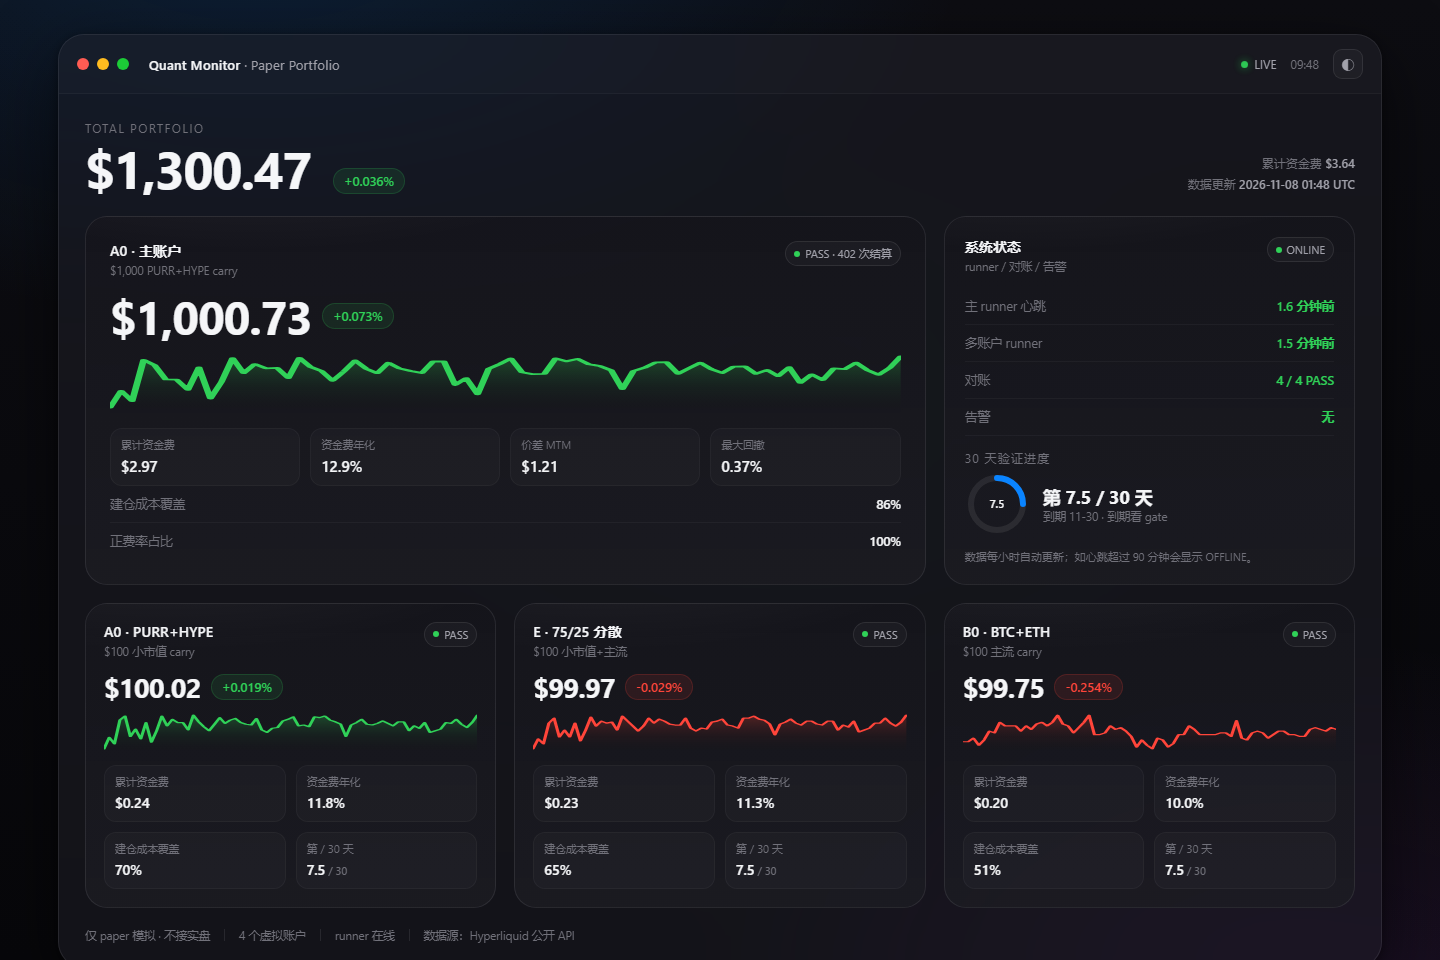
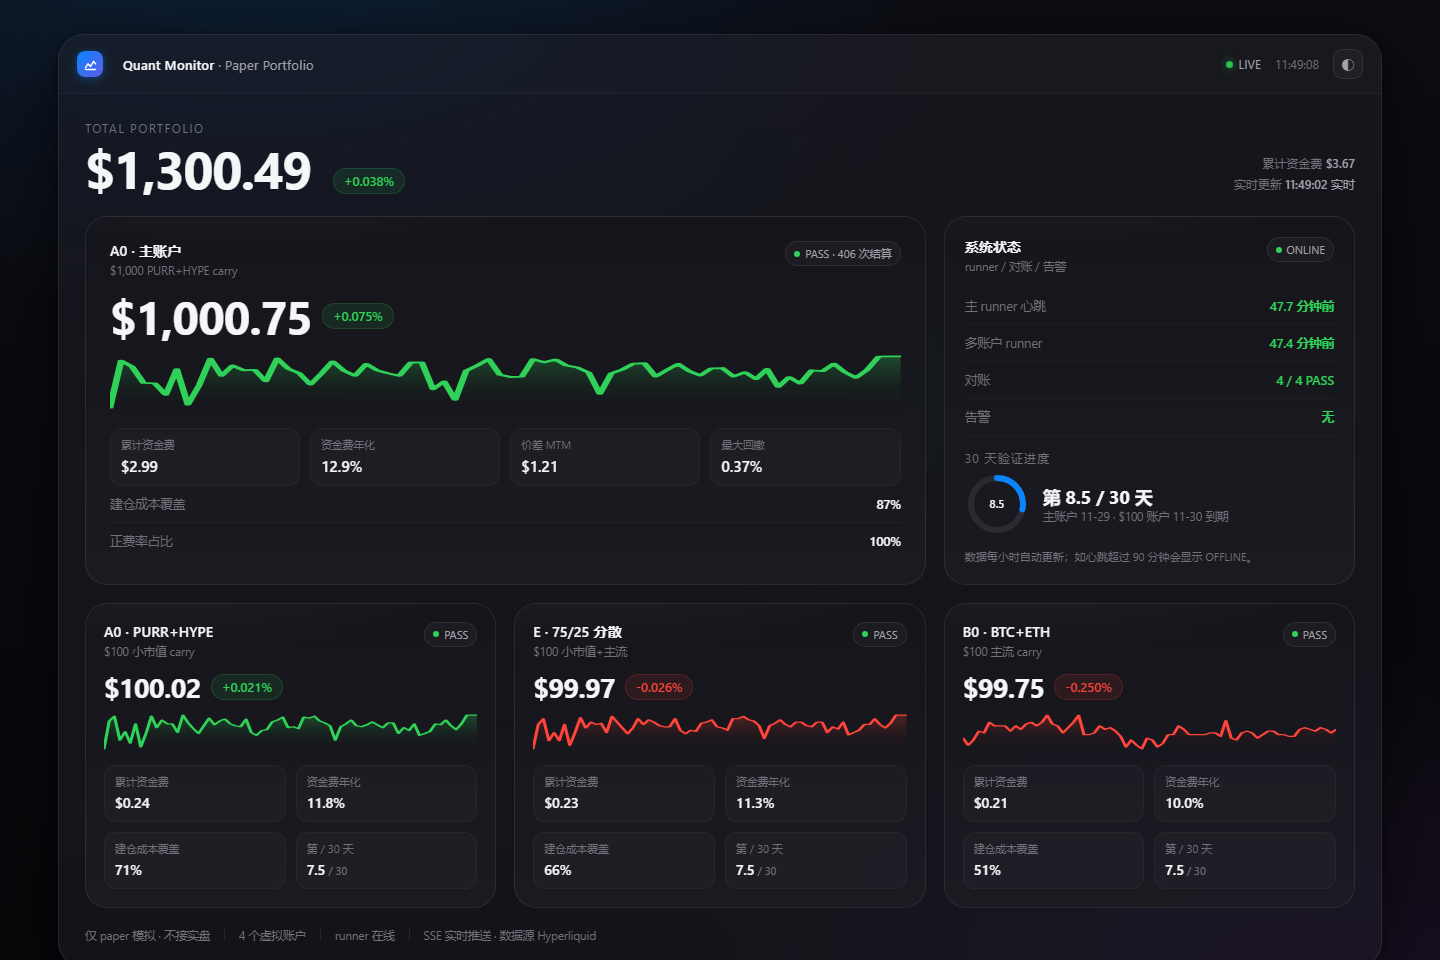
feat(dashboard): realtime SSE updates, drop decorative traffic lights

diff --git a/dashboard/index.html b/dashboard/index.html
@@ -51,9 +51,9 @@ body::before{
   display:flex; align-items:center; gap:14px; padding:14px 18px;
   border-bottom:1px solid var(--line-2); background:rgba(255,255,255,.015);
 }
-.lights{display:flex; gap:8px}
-.lights i{width:12px; height:12px; border-radius:50%; display:block; filter:saturate(1.1)}
-.lights .r{background:#ff5f57} .lights .y{background:#febc2e} .lights .g{background:#28c840}
+.appicon{width:26px;height:26px;border-radius:8px;display:grid;place-items:center;
+  background:linear-gradient(135deg,#0a84ff,#5e5ce6); box-shadow:0 2px 10px rgba(10,132,255,.4)}
+.appicon svg{width:15px;height:15px;fill:none;stroke:#fff;stroke-width:2.3;stroke-linecap:round;stroke-linejoin:round}
 .title{font-size:13px; color:var(--dim); letter-spacing:.02em; margin-left:6px}
 .title b{color:var(--ink); font-weight:600}
 .titlebar .right{margin-left:auto; display:flex; align-items:center; gap:14px; color:var(--dim2); font-size:12px}
@@ -166,7 +166,7 @@ body::before{
 <div class="wrap">
   <div class="window">
     <div class="titlebar">
-      <div class="lights"><i class="r"></i><i class="y"></i><i class="g"></i></div>
+      <div class="appicon"><svg viewBox="0 0 24 24"><path d="M4 17l4-6 4 4 5-8 3 4"/><path d="M4 20h16"/></svg></div>
       <div class="title"><b>Quant Monitor</b> · Paper Portfolio</div>
       <div class="right">
         <span class="live"><span class="dot"></span><span id="liveText">LIVE</span></span>
@@ -184,7 +184,7 @@ body::before{
         <div id="totalPill" class="pill flat">—</div>
         <div class="meta">
           <div>累计资金费 <b id="totalFunding">—</b></div>
-          <div>数据更新 <b id="updated">—</b></div>
+          <div>实时更新 <b id="updated">—</b></div>
         </div>
       </div>
 
@@ -196,7 +196,7 @@ body::before{
         <span>仅 paper 模拟 · 不接实盘</span><span class="sep"></span>
         <span>4 个虚拟账户</span><span class="sep"></span>
         <span id="footRunner">runner —</span><span class="sep"></span>
-        <span>数据源：Hyperliquid 公开 API</span>
+        <span>SSE 实时推送 · 数据源 Hyperliquid</span>
       </div>
     </div>
   </div>
@@ -307,19 +307,52 @@ function systemCard(s, accounts, main){
 async function refresh(){
   try{
     const r = await fetch('/api/summary', {cache:'no-store'});
-    const d = await r.json();
-    const t = d.totals;
-    $('#totalNav').innerHTML = fmtMoney(t.nav);
-    $('#totalPill').className = 'pill ' + cls(t.ret);
-    $('#totalPill').textContent = fmtPct(t.ret);
-    $('#totalFunding').textContent = fmtMoney(t.funding);
-    $('#updated').textContent = d.now;
-    $('#clock').textContent = new Date().toLocaleTimeString('zh-CN', {hour:'2-digit', minute:'2-digit'});
-    $('#footRunner').textContent = d.system.online ? 'runner 在线' : 'runner 离线';
-    $('#grid').innerHTML = mainCard(d.main) + systemCard(d.system, d.accounts, d.main) + d.accounts.map(miniCard).join('');
+    apply(await r.json());
+    setLive(true);
   }catch(e){
-    $('#liveText').textContent = 'OFFLINE';
+    setLive(false);
   }
+}
+
+let lastSig = '';
+function apply(d){
+  const t = d.totals;
+  $('#totalNav').textContent = fmtMoney(t.nav);
+  $('#totalPill').className = 'pill ' + cls(t.ret);
+  $('#totalPill').textContent = fmtPct(t.ret);
+  $('#totalFunding').textContent = fmtMoney(t.funding);
+  $('#updated').textContent = new Date().toLocaleTimeString('zh-CN', {hour:'2-digit', minute:'2-digit', second:'2-digit'});
+  $('#footRunner').textContent = d.system.online ? 'runner 在线' : 'runner 离线';
+  const sig = JSON.stringify({tn: t.nav, tr: t.ret, m: d.main.nav, mf: d.main.funding, r: d.main.reconcile,
+    a: d.accounts.map(x => [x.nav, x.ret, x.funding, x.reconcile]),
+    s: [d.system.online, d.system.main_runner, d.system.acct_runner]});
+  if(sig !== lastSig){
+    lastSig = sig;
+    $('#grid').innerHTML = mainCard(d.main) + systemCard(d.system, d.accounts, d.main) + d.accounts.map(miniCard).join('');
+  }
+}
+
+function setLive(on){
+  const txt = $('#liveText');
+  txt.textContent = on ? 'LIVE' : 'OFFLINE';
+  const dot = document.querySelector('.live .dot');
+  if(dot) dot.style.background = on ? 'var(--green)' : 'var(--red)';
+}
+
+let es = null;
+function connect(){
+  if(!('EventSource' in window)){ refresh(); setInterval(refresh, 5000); return; }
+  try { if(es) es.close(); } catch(e){}
+  es = new EventSource('/api/stream');
+  es.onmessage = (ev) => {
+    setLive(true);
+    try { apply(JSON.parse(ev.data)); } catch(e){}
+  };
+  es.onerror = () => {
+    setLive(false);
+    try { es.close(); } catch(e){}
+    setTimeout(connect, 3000);
+  };
 }
 
 // theme
@@ -333,8 +366,14 @@ $('#themeBtn').onclick = () => {
   root.dataset.theme = next; localStorage.setItem('qm-theme', next);
 };
 
+setInterval(() => {
+  $('#clock').textContent = new Date().toLocaleTimeString('zh-CN', {hour:'2-digit', minute:'2-digit', second:'2-digit'});
+}, 1000);
+
 refresh();
-setInterval(refresh, 10000);
+const _snap = new URLSearchParams(location.search).has('snap');
+if(!_snap) connect();
 </script>
 </body>
 </html>
+

diff --git a/dashboard/server.py b/dashboard/server.py
@@ -151,6 +151,8 @@ class Handler(SimpleHTTPRequestHandler):
         pass
 
     def do_GET(self):  # noqa: N802
+        if self.path.split("?")[0] == "/api/stream":
+            return self._sse()
         if self.path.split("?")[0] == "/api/summary":
             data = json.dumps(summary(), ensure_ascii=False).encode("utf-8")
             self.send_response(200)
@@ -163,6 +165,30 @@ class Handler(SimpleHTTPRequestHandler):
         if self.path in ("/", ""):
             self.path = "/index.html"
         return super().do_GET()
+
+    def _sse(self) -> None:
+        """Server-Sent Events：文件一变就推，最多 2 秒一次。"""
+        self.send_response(200)
+        self.send_header("Content-Type", "text/event-stream; charset=utf-8")
+        self.send_header("Cache-Control", "no-store")
+        self.send_header("Connection", "keep-alive")
+        self.end_headers()
+        try:
+            self.wfile.write(b"retry: 3000\n\n")
+            self.wfile.flush()
+            last = None
+            while True:
+                data = json.dumps(summary(), ensure_ascii=False)
+                if data != last:
+                    self.wfile.write(("data: " + data + "\n\n").encode("utf-8"))
+                    self.wfile.flush()
+                    last = data
+                else:
+                    self.wfile.write(b": ping\n\n")
+                    self.wfile.flush()
+                time.sleep(2)
+        except (BrokenPipeError, ConnectionResetError, OSError):
+            pass
 
 
 def main() -> int:

diff --git a/paper/accounts/e_100/REPORT.md b/paper/accounts/e_100/REPORT.md
@@ -1,8 +1,8 @@
 # Paper 账户 e_100
 
 - 启动：2026-10-31T14:43:51+00:00 ｜ 本金 $100.00 ｜ 建仓成本 $0.3549
-- 当前 NAV：**$99.97** ｜ 累计收益：-0.029%
-- 累计资金费：$+0.2314 ｜ 结算 716 次 ｜ 正费率 98.9%
+- 当前 NAV：**$99.97** ｜ 累计收益：-0.026%
+- 累计资金费：$+0.2334 ｜ 结算 724 次 ｜ 正费率 98.9%
 - 小时级最大回撤：0.327% ｜ 最小下单满足：✅
 
 ## 持仓
@@ -18,15 +18,15 @@
 
 | 资产 | 时间(UTC) | 费率 | 金额$ |
 |---|---|---:|---:|
-| PURR | 11-07 23:00 | 0.00001250 | +0.000351 |
-| PURR | 11-08 00:00 | 0.00001250 | +0.000351 |
 | PURR | 11-08 01:00 | 0.00001250 | +0.000351 |
-| HYPE | 11-07 23:00 | 0.00001250 | +0.000423 |
-| HYPE | 11-08 00:00 | 0.00001250 | +0.000423 |
+| PURR | 11-08 02:00 | 0.00001250 | +0.000351 |
+| PURR | 11-08 03:00 | 0.00001250 | +0.000351 |
 | HYPE | 11-08 01:00 | 0.00001250 | +0.000423 |
-| BTC | 11-07 23:00 | 0.00001250 | +0.000145 |
-| BTC | 11-08 00:00 | 0.00001250 | +0.000145 |
+| HYPE | 11-08 02:00 | 0.00001250 | +0.000423 |
+| HYPE | 11-08 03:00 | 0.00001250 | +0.000423 |
 | BTC | 11-08 01:00 | 0.00001250 | +0.000145 |
-| ETH | 11-07 23:00 | 0.00001250 | +0.000149 |
-| ETH | 11-08 00:00 | 0.00001250 | +0.000149 |
+| BTC | 11-08 02:00 | 0.00001250 | +0.000145 |
+| BTC | 11-08 03:00 | 0.00001250 | +0.000145 |
 | ETH | 11-08 01:00 | 0.00001250 | +0.000149 |
+| ETH | 11-08 02:00 | 0.00001002 | +0.000120 |
+| ETH | 11-08 03:00 | 0.00000630 | +0.000075 |

diff --git a/paper/REPORT.md b/paper/REPORT.md
@@ -2,8 +2,8 @@
 
 - 启动时间：2026-10-30T16:40:40+00:00
 - 初始资金：$1000.00 ｜ 建仓成本：$3.44
-- 当前 NAV：**$1000.73** ｜ 累计收益：+0.073%
-- 累计资金费：$+2.9659 ｜ 结算次数：402 ｜ 正费率占比：100.0%
+- 当前 NAV：**$1000.75** ｜ 累计收益：+0.075%
+- 累计资金费：$+2.9866 ｜ 结算次数：406 ｜ 正费率占比：100.0%
 - 最大回撤（小时级）：0.416%
 
 ## 持仓
@@ -17,15 +17,15 @@
 
 | 资产 | 时间(UTC) | 费率 | 金额$ |
 |---|---|---:|---:|
-| PURR | 11-07 21:00 | 0.00001250 | +0.004687 |
-| PURR | 11-07 22:00 | 0.00001250 | +0.004687 |
 | PURR | 11-07 23:00 | 0.00001250 | +0.004687 |
 | PURR | 11-08 00:00 | 0.00001250 | +0.004687 |
 | PURR | 11-08 01:00 | 0.00001250 | +0.004687 |
-| HYPE | 11-07 21:00 | 0.00001250 | +0.005682 |
-| HYPE | 11-07 22:00 | 0.00001250 | +0.005682 |
+| PURR | 11-08 02:00 | 0.00001250 | +0.004687 |
+| PURR | 11-08 03:00 | 0.00001250 | +0.004687 |
 | HYPE | 11-07 23:00 | 0.00001250 | +0.005682 |
 | HYPE | 11-08 00:00 | 0.00001250 | +0.005682 |
 | HYPE | 11-08 01:00 | 0.00001250 | +0.005682 |
+| HYPE | 11-08 02:00 | 0.00001250 | +0.005682 |
+| HYPE | 11-08 03:00 | 0.00001250 | +0.005682 |
 
 > paper 模拟盘：公开数据、虚拟资金，不涉及真实订单。

diff --git a/paper/accounts/a0_100/REPORT.md b/paper/accounts/a0_100/REPORT.md
@@ -1,8 +1,8 @@
 # Paper 账户 a0_100
 
 - 启动：2026-10-31T14:43:45+00:00 ｜ 本金 $100.00 ｜ 建仓成本 $0.3428
-- 当前 NAV：**$100.02** ｜ 累计收益：+0.019%
-- 累计资金费：$+0.2417 ｜ 结算 358 次 ｜ 正费率 100.0%
+- 当前 NAV：**$100.02** ｜ 累计收益：+0.021%
+- 累计资金费：$+0.2437 ｜ 结算 362 次 ｜ 正费率 100.0%
 - 小时级最大回撤：0.437% ｜ 最小下单满足：✅
 
 ## 持仓
@@ -16,9 +16,9 @@
 
 | 资产 | 时间(UTC) | 费率 | 金额$ |
 |---|---|---:|---:|
-| PURR | 11-07 23:00 | 0.00001250 | +0.000468 |
-| PURR | 11-08 00:00 | 0.00001250 | +0.000468 |
 | PURR | 11-08 01:00 | 0.00001250 | +0.000468 |
-| HYPE | 11-07 23:00 | 0.00001250 | +0.000564 |
-| HYPE | 11-08 00:00 | 0.00001250 | +0.000564 |
+| PURR | 11-08 02:00 | 0.00001250 | +0.000468 |
+| PURR | 11-08 03:00 | 0.00001250 | +0.000468 |
 | HYPE | 11-08 01:00 | 0.00001250 | +0.000564 |
+| HYPE | 11-08 02:00 | 0.00001250 | +0.000564 |
+| HYPE | 11-08 03:00 | 0.00001250 | +0.000564 |

diff --git a/paper/accounts/b0_100/REPORT.md b/paper/accounts/b0_100/REPORT.md
@@ -1,8 +1,8 @@
 # Paper 账户 b0_100
 
 - 启动：2026-10-31T14:44:34+00:00 ｜ 本金 $100.00 ｜ 建仓成本 $0.4014
-- 当前 NAV：**$99.75** ｜ 累计收益：-0.254%
-- 累计资金费：$+0.2040 ｜ 结算 358 次 ｜ 正费率 97.8%
+- 当前 NAV：**$99.75** ｜ 累计收益：-0.250%
+- 累计资金费：$+0.2060 ｜ 结算 362 次 ｜ 正费率 97.8%
 - 小时级最大回撤：0.185% ｜ 最小下单满足：✅
 
 ## 持仓
@@ -16,9 +16,9 @@
 
 | 资产 | 时间(UTC) | 费率 | 金额$ |
 |---|---|---:|---:|
-| BTC | 11-07 23:00 | 0.00001250 | +0.000601 |
-| BTC | 11-08 00:00 | 0.00001250 | +0.000601 |
 | BTC | 11-08 01:00 | 0.00001250 | +0.000601 |
-| ETH | 11-07 23:00 | 0.00001250 | +0.000600 |
-| ETH | 11-08 00:00 | 0.00001250 | +0.000600 |
+| BTC | 11-08 02:00 | 0.00001250 | +0.000601 |
+| BTC | 11-08 03:00 | 0.00001250 | +0.000601 |
 | ETH | 11-08 01:00 | 0.00001250 | +0.000600 |
+| ETH | 11-08 02:00 | 0.00001002 | +0.000480 |
+| ETH | 11-08 03:00 | 0.00000630 | +0.000302 |

diff --git a/dashboard/README.md b/dashboard/README.md
@@ -23,7 +23,7 @@ powershell -ExecutionPolicy Bypass -File C:\量化项目\dashboard\start.ps1
 - **主账户 $1,000**：NAV、收益、资金费、年化、MTM、回撤、建仓成本覆盖、正费率占比、NAV 走势；
 - **3 个 $100 账户**：NAV、收益、资金费、年化、覆盖、第 x/30 天、迷你走势；
 - **系统状态**：两个 runner 心跳（>90 分钟显示 OFFLINE）、对账 4/4 PASS、告警、30 天 gate 进度；
-- 每 10 秒自动刷新；右上角可切换深/浅色；`?theme=light` 可直接打开浅色。
+- 每 2 秒 SSE 实时推送（文件一变立刻推），右上角可切换深/浅色；`?theme=light` 可直接打开浅色；`?snap=1` 用于截图。
 
 ## 数据来源
 

diff --git a/paper/ACCOUNTS.md b/paper/ACCOUNTS.md
@@ -2,8 +2,8 @@
 
 | 账户 | 策略 | 本金 | NAV | 收益 | 累计资金费 | 正费率 | 对账 |
 |---|---|---:|---:|---:|---:|---:|---|
-| a0_100 | PURR50%/HYPE50% | $100 | $100.02 | +0.019% | $+0.2417 | 100.0% | PASS |
-| e_100 | PURR37%/HYPE37%/BTC12%/ETH12% | $100 | $99.97 | -0.029% | $+0.2314 | 98.9% | PASS |
-| b0_100 | BTC50%/ETH50% | $100 | $99.75 | -0.254% | $+0.2040 | 97.8% | PASS |
+| a0_100 | PURR50%/HYPE50% | $100 | $100.02 | +0.021% | $+0.2437 | 100.0% | PASS |
+| e_100 | PURR37%/HYPE37%/BTC12%/ETH12% | $100 | $99.97 | -0.026% | $+0.2334 | 98.9% | PASS |
+| b0_100 | BTC50%/ETH50% | $100 | $99.75 | -0.250% | $+0.2060 | 97.8% | PASS |
 
 > 各账户独立虚拟资金；数字每小时更新。
